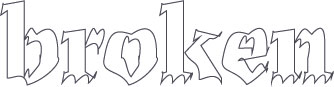
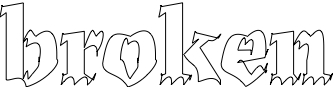
updated test cases

Changed region(s): [[0.0, 0.0, 1.0, 1.0]]

diff --git a/tests/drawing.py b/tests/drawing.py
@@ -41,7 +41,7 @@ class DrawingTests(PlotDeviceTestCase):
         # tut/Bezier_Paths (4)
         size(334, 87)
         font("Dolly", "bold", 100)
-        path = textpath("broken", 200,200)
+        path = textpath("broken", 0,80)
         
         curves = []
         for curve in path:
@@ -51,7 +51,8 @@ class DrawingTests(PlotDeviceTestCase):
                 curve.y += 5
             curves.append(curve)
         
-        bezier(curves)
+        with stroke(0), nofill():
+            bezier(curves)
 
     @reference('drawing/pathmatics-contours.png')
     def test_pathmatics_contours(self):
@@ -199,7 +200,16 @@ class DrawingTests(PlotDeviceTestCase):
         # ref/Canvas/commands/background()
         size(125, 125)
         background(.5)
-        rect(10, 10, 50, 50)
+        rect(10,10, 50,50)
+
+    @reference('drawing/clear.png')
+    def test_clear(self):
+        # ref/Canvas/commands/clear()
+        size(125, 125)
+        r = rect(0,0, 100,10) # add a rectangle
+        t = poly(50,50, 25)   # add a square
+        c = arc(125,125, 50)  # add a circle
+        clear(r, c) # remove the rectangle & circle
 
     @reference('drawing/plot-delay.png')
     def test_plot_delay(self):
@@ -342,7 +352,7 @@ class DrawingTests(PlotDeviceTestCase):
         path = findpath(points)
         drawpath(path)
 
-    @reference('drawing/fill.jpg')
+    @reference('drawing/fill.png')
     def test_fill(self):
         # ref/Line+Color/commands/fill()
         size(125, 125)

diff --git a/tests/typography.py b/tests/typography.py
@@ -355,7 +355,7 @@ class TypographyTests(PlotDeviceTestCase):
         markup = "<it>Bip <bf>Blip</bf></it>"
         stylesheet("it", italic=True)
         stylesheet("bf", weight='black')
-        with font("Georgia", 22):
+        with font("Baskerville", 22):
             text(20,40, xml=markup)
         with font("Avenir", 18), fill('red'):
             text(20,80, xml=markup)
